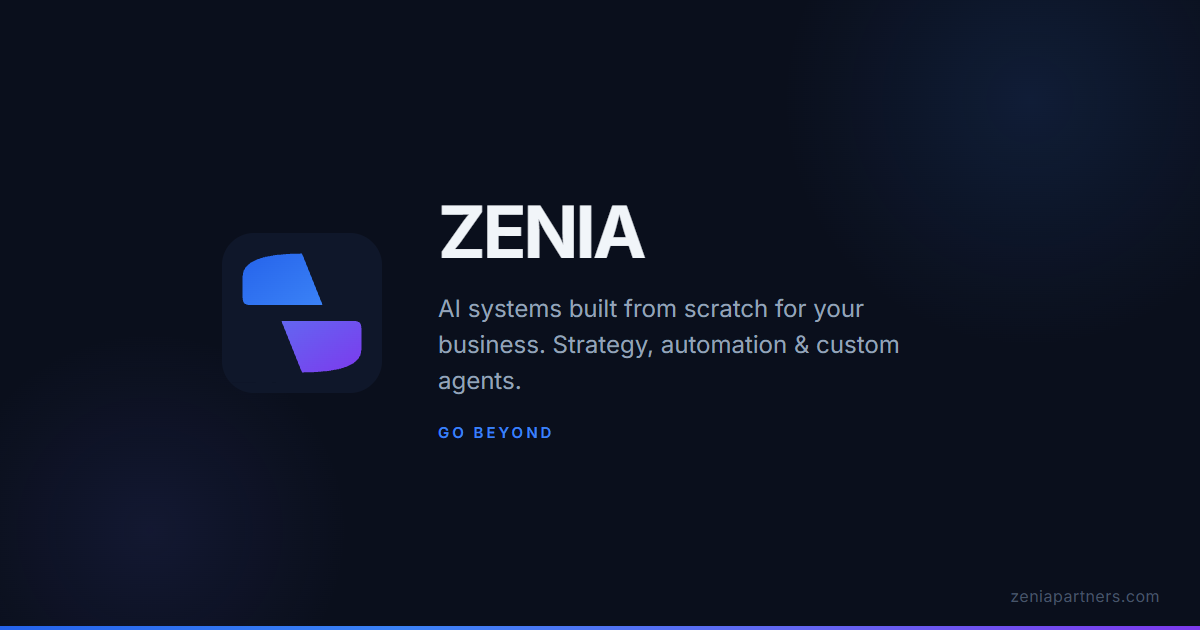
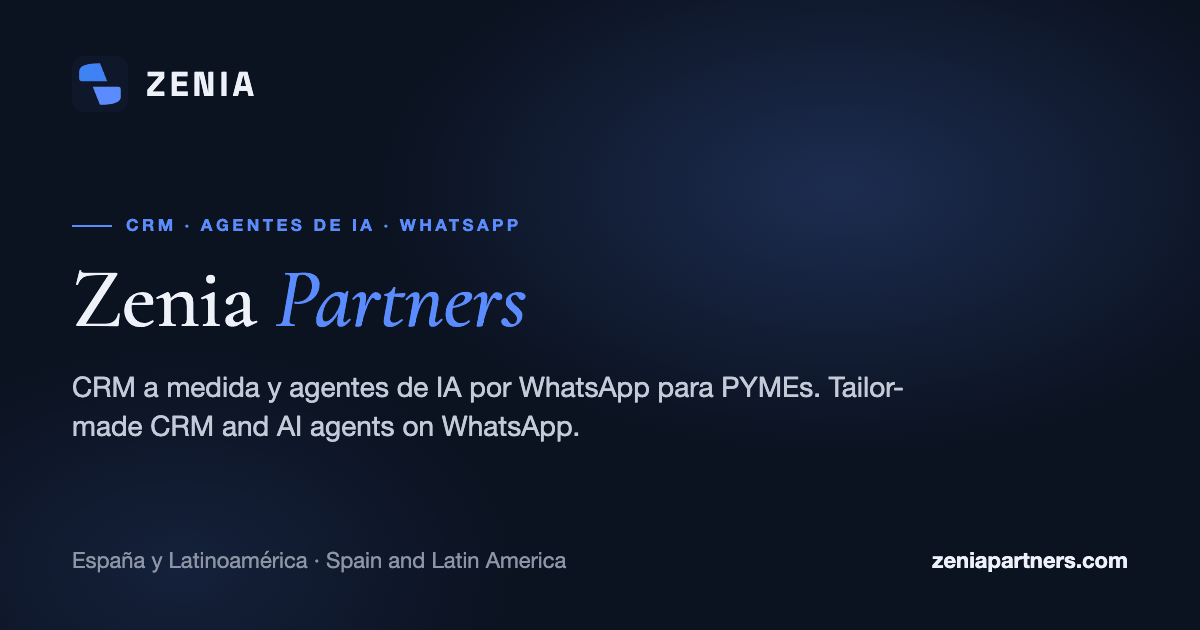
Portadas: tarjetas de vista previa nuevas (WhatsApp, LinkedIn) por idioma y móvil pulido
- og-home-es.jpg / og-home-en.jpg con el logo, la foto de Madrid y el titular; og-image.png nuevo para el resto de páginas.
- Móvil: banda de herramientas en dos columnas alineadas, línea de tiempo vertical con raíl y nodos, los tres marcos de vídeo iguales, botones del cierre a todo el ancho.

diff --git a/index.html b/index.html
@@ -38,7 +38,9 @@
 <meta property="og:title" content="ZENIA | AI Systems for Business | Sistemas de IA para Empresas">
 <meta property="og:description" content="CRM inteligente + automatización WhatsApp + IA para restaurantes, fitness y retail. Reservas, atención al cliente y ventas en piloto automático.">
 <meta property="og:url" content="https://zeniapartners.com/">
-<meta property="og:image" content="https://zeniapartners.com/assets/images/og-image.png">
+<meta property="og:image" content="https://zeniapartners.com/assets/images/og-home-en.jpg">
+<meta property="og:image:secure_url" content="https://zeniapartners.com/assets/images/og-home-en.jpg">
+<meta property="og:image:type" content="image/jpeg">
 <meta property="og:image:width" content="1200">
 <meta property="og:image:height" content="630">
 <meta property="og:locale" content="en_US">
@@ -48,7 +50,7 @@
 <meta name="twitter:card" content="summary_large_image">
 <meta name="twitter:title" content="ZENIA | AI Systems for Business | Sistemas de IA para Empresas">
 <meta name="twitter:description" content="CRM inteligente + automatización WhatsApp + IA para restaurantes, fitness y retail. Reservas, atención al cliente y ventas en piloto automático.">
-<meta name="twitter:image" content="https://zeniapartners.com/assets/images/og-image.png">
+<meta name="twitter:image" content="https://zeniapartners.com/assets/images/og-home-en.jpg">
 
 <!-- SEO: Additional meta -->
 <meta name="robots" content="index, follow, max-snippet:-1, max-image-preview:large, max-video-preview:-1">
@@ -74,7 +76,7 @@
 <noscript><link href="https://fonts.googleapis.com/css2?family=Cormorant+Garamond:ital,wght@0,500;0,600;1,500;1,600&family=Space+Grotesk:wght@700&display=swap" rel="stylesheet"></noscript>
 
 <!-- Stylesheet -->
-<link rel="stylesheet" href="styles/home.css?v=1793736884">
+<link rel="stylesheet" href="styles/home.css?v=1793906336">
 <script type="application/ld+json" data-zenia-org="1">{"@context": "https://schema.org", "@type": ["Organization", "ProfessionalService"], "@id": "https://zeniapartners.com/#organizacion", "name": "Zenia Partners", "alternateName": "Zenia", "url": "https://zeniapartners.com/", "logo": "https://zeniapartners.com/assets/logos/zenia-logo.png", "image": "https://zeniapartners.com/assets/logos/zenia-logo.png", "description": "Zenia Partners es una agencia de inteligencia artificial que implementa agentes de IA sobre WhatsApp y CRM para pequeñas y medianas empresas en España y Latinoamérica. El agente atiende consultas, agenda citas, confirma reservas y recupera clientes inactivos las 24 horas, integrado con las herramientas que la empresa ya usa.", "email": "fabrizzio.zelada@zeniapartners.com", "founder": {"@type": "Person", "name": "Fabrizzio Zelada Uriarte"}, "sameAs": ["https://www.linkedin.com/company/zenia-partners/", "https://www.instagram.com/zeniapartners"], "areaServed": [{"@type": "Country", "name": "España"}, {"@type": "Country", "name": "Perú"}, {"@type": "Country", "name": "México"}, {"@type": "Country", "name": "Colombia"}, {"@type": "Country", "name": "Chile"}, {"@type": "Country", "name": "Argentina"}, {"@type": "Country", "name": "Ecuador"}, {"@type": "Country", "name": "Uruguay"}, {"@type": "Country", "name": "Bolivia"}], "knowsAbout": ["agentes de IA", "automatización de WhatsApp", "WhatsApp Business API", "CRM con inteligencia artificial", "automatización de citas y reservas", "recuperación de clientes inactivos", "atención al cliente 24/7"], "slogan": "Agentes de IA y CRM con WhatsApp para PyMEs", "hasOfferCatalog": {"@type": "OfferCatalog", "name": "Servicios de Zenia Partners", "itemListElement": [{"@type": "Offer", "itemOffered": {"@type": "Service", "name": "Agente de IA por WhatsApp", "description": "Agente conversacional propio sobre WhatsApp Business API que responde, cualifica y agenda 24/7 con el tono de cada negocio."}}, {"@type": "Offer", "itemOffered": {"@type": "Service", "name": "CRM con inteligencia artificial", "description": "CRM implantado y conectado al agente, con ficha de cliente, historial y seguimiento automático."}}, {"@type": "Offer", "itemOffered": {"@type": "Service", "name": "Automatización de citas y reservas", "description": "Agenda, confirmaciones y recordatorios automáticos para reducir las ausencias a las citas."}}, {"@type": "Offer", "itemOffered": {"@type": "Service", "name": "Recuperación de clientes inactivos", "description": "Campañas automáticas que reactivan a clientes que llevan meses sin comprar."}}]}}</script>
 </head>
 <body>
@@ -690,9 +692,9 @@
 <script src="js/i18n.js?v=8"></script>
 <script src="js/main.js?v=7"></script>
 <script defer src="js/booking.js?v=2"></script>
-<script defer src="js/demo-chat.js?v=1793736884"></script>
-<script defer src="js/hero-net.js?v=1793736884"></script>
-<script defer src="js/loops.js?v=1793736884"></script>
+<script defer src="js/demo-chat.js?v=1793906336"></script>
+<script defer src="js/hero-net.js?v=1793906336"></script>
+<script defer src="js/loops.js?v=1793906336"></script>
 
 
 

diff --git a/es/index.html b/es/index.html
@@ -38,7 +38,9 @@
 <meta property="og:title" content="CRM con IA y WhatsApp para PYMEs en Espa&ntilde;a | ZENIA">
 <meta property="og:description" content="CRM con IA y WhatsApp para PYMEs en Espa&ntilde;a. Automatiza ventas, retenci&oacute;n y atenci&oacute;n al cliente.">
 <meta property="og:url" content="https://zeniapartners.com/es/">
-<meta property="og:image" content="https://zeniapartners.com/assets/images/og-image.png">
+<meta property="og:image" content="https://zeniapartners.com/assets/images/og-home-es.jpg">
+<meta property="og:image:secure_url" content="https://zeniapartners.com/assets/images/og-home-es.jpg">
+<meta property="og:image:type" content="image/jpeg">
 <meta property="og:image:width" content="1200">
 <meta property="og:image:height" content="630">
 <meta property="og:locale" content="es_ES">
@@ -48,7 +50,7 @@
 <meta name="twitter:card" content="summary_large_image">
 <meta name="twitter:title" content="CRM con IA y WhatsApp para PYMEs en Espa&ntilde;a | ZENIA">
 <meta name="twitter:description" content="CRM con IA y WhatsApp para PYMEs en Espa&ntilde;a. Desde &euro;297/mes. Restaurantes, gimnasios, cl&iacute;nicas, hoteles, retail y m&aacute;s.">
-<meta name="twitter:image" content="https://zeniapartners.com/assets/images/og-image.png">
+<meta name="twitter:image" content="https://zeniapartners.com/assets/images/og-home-es.jpg">
 
 <!-- SEO: Additional meta -->
 <meta name="robots" content="index, follow, max-snippet:-1, max-image-preview:large, max-video-preview:-1">
@@ -75,7 +77,7 @@
 <noscript><link href="https://fonts.googleapis.com/css2?family=Cormorant+Garamond:ital,wght@0,500;0,600;1,500;1,600&family=Space+Grotesk:wght@700&display=swap" rel="stylesheet"></noscript>
 
 <!-- Stylesheet -->
-<link rel="stylesheet" href="../styles/home.css?v=1793736884">
+<link rel="stylesheet" href="../styles/home.css?v=1793906336">
 <script type="application/ld+json" data-zenia-org="1">{"@context": "https://schema.org", "@type": ["Organization", "ProfessionalService"], "@id": "https://zeniapartners.com/#organizacion", "name": "Zenia Partners", "alternateName": "Zenia", "url": "https://zeniapartners.com/", "logo": "https://zeniapartners.com/assets/logos/zenia-logo.png", "image": "https://zeniapartners.com/assets/logos/zenia-logo.png", "description": "Zenia Partners es una agencia de inteligencia artificial que implementa agentes de IA sobre WhatsApp y CRM para pequeñas y medianas empresas en España y Latinoamérica. El agente atiende consultas, agenda citas, confirma reservas y recupera clientes inactivos las 24 horas, integrado con las herramientas que la empresa ya usa.", "email": "fabrizzio.zelada@zeniapartners.com", "founder": {"@type": "Person", "name": "Fabrizzio Zelada Uriarte"}, "sameAs": ["https://www.linkedin.com/company/zenia-partners/", "https://www.instagram.com/zeniapartners"], "areaServed": [{"@type": "Country", "name": "España"}, {"@type": "Country", "name": "Perú"}, {"@type": "Country", "name": "México"}, {"@type": "Country", "name": "Colombia"}, {"@type": "Country", "name": "Chile"}, {"@type": "Country", "name": "Argentina"}, {"@type": "Country", "name": "Ecuador"}, {"@type": "Country", "name": "Uruguay"}, {"@type": "Country", "name": "Bolivia"}], "knowsAbout": ["agentes de IA", "automatización de WhatsApp", "WhatsApp Business API", "CRM con inteligencia artificial", "automatización de citas y reservas", "recuperación de clientes inactivos", "atención al cliente 24/7"], "slogan": "Agentes de IA y CRM con WhatsApp para PyMEs", "hasOfferCatalog": {"@type": "OfferCatalog", "name": "Servicios de Zenia Partners", "itemListElement": [{"@type": "Offer", "itemOffered": {"@type": "Service", "name": "Agente de IA por WhatsApp", "description": "Agente conversacional propio sobre WhatsApp Business API que responde, cualifica y agenda 24/7 con el tono de cada negocio."}}, {"@type": "Offer", "itemOffered": {"@type": "Service", "name": "CRM con inteligencia artificial", "description": "CRM implantado y conectado al agente, con ficha de cliente, historial y seguimiento automático."}}, {"@type": "Offer", "itemOffered": {"@type": "Service", "name": "Automatización de citas y reservas", "description": "Agenda, confirmaciones y recordatorios automáticos para reducir las ausencias a las citas."}}, {"@type": "Offer", "itemOffered": {"@type": "Service", "name": "Recuperación de clientes inactivos", "description": "Campañas automáticas que reactivan a clientes que llevan meses sin comprar."}}]}}</script>
 </head>
 <body>
@@ -825,9 +827,9 @@ window.showLangModal = showLangModal;
 </script>
 <script src="../js/main.js?v=7"></script>
 <script defer src="../js/booking.js?v=2"></script>
-<script defer src="../js/demo-chat.js?v=1793736884"></script>
-<script defer src="../js/hero-net.js?v=1793736884"></script>
-<script defer src="../js/loops.js?v=1793736884"></script>
+<script defer src="../js/demo-chat.js?v=1793906336"></script>
+<script defer src="../js/hero-net.js?v=1793906336"></script>
+<script defer src="../js/loops.js?v=1793906336"></script>
 
 
 

diff --git a/styles/home.css b/styles/home.css
@@ -1113,21 +1113,27 @@ body > div:has(> a[href$="cobertura.html"]) a { color: var(--ink-soft) !importan
   .nav-links.nav-open, .nav-right.nav-open { background: var(--paper-2); border-bottom: 1px solid var(--line); }
   .nav-links.nav-open a { color: var(--ink); }
   body.nav-menu-open .nav { background: var(--paper-2); }
-  .strip .container { gap: 14px 24px; }
-  .strip li { font-size: 1.0625rem; }
+  .strip .container { display: block; }
+  .strip-label { margin-bottom: 16px; }
+  .strip ul { display: grid; grid-template-columns: minmax(0, 1.35fr) minmax(0, 1fr); gap: 14px 14px; }
+  .strip li { font-size: 0.9375rem; min-width: 0; white-space: nowrap; overflow: hidden; text-overflow: ellipsis; display: flex; gap: 8px; }
+  .strip li span { overflow: hidden; text-overflow: ellipsis; }
   .strip li svg { width: 18px; height: 18px; }
-  .gantt { border-radius: 12px; }
-  .gantt-chart { grid-template-columns: 1fr; grid-template-rows: none; }
-  .gantt-corner, .gantt-ruler, .gantt-grid { display: none; }
-  .gantt-text, .gantt-track { grid-column: 1; grid-row: auto; border-right: 0; }
-  .gantt-text { padding: 20px 20px 10px; border-bottom: 0; }
-  .gantt-track { min-height: 0; height: 40px; margin: 0 20px 20px; border-bottom: 0; background: repeating-linear-gradient(to right, var(--line) 0 1px, transparent 1px calc(100% / 12)); }
-  .gantt-row:not(:last-child) .gantt-track::before { content: ""; position: absolute; left: -20px; right: -20px; bottom: -20px; border-bottom: 1px solid var(--line); }
-  .gantt-bar { height: 16px; padding: 0; border-radius: 4px; box-shadow: none; left: calc(var(--s) / var(--n) * 100%); width: calc((var(--e) - var(--s)) / var(--n) * 100%); }
-  .gantt-row--inf .gantt-bar { width: calc((var(--e) - var(--s)) / var(--n) * 100% - 18px); }
-  .gantt-bar i { display: none; }
-  .gantt-dur { display: block; }
-  .gantt-row--inf .gantt-track::after { font-size: 1rem; right: 0; }
+  .gantt { border-radius: 12px; background: none; border: 0; box-shadow: none; }
+  .gantt-chart { display: block; }
+  .gantt-corner, .gantt-ruler, .gantt-grid, .gantt-track { display: none; }
+  .gantt-rows { display: block; position: relative; padding-left: 34px; }
+  .gantt-rows::before { content: ""; position: absolute; left: 9px; top: 10px; bottom: 10px; width: 2px; background: var(--line-strong); }
+  .gantt-row { display: block; position: relative; padding: 0 0 28px; }
+  .gantt-row:last-child { padding-bottom: 0; }
+  .gantt-row::before { content: ""; position: absolute; left: -34px; top: 4px; width: 20px; height: 20px; border-radius: 50%; background: var(--paper); border: 2px solid var(--accent); box-sizing: border-box; }
+  .gantt-row:nth-child(1)::before, .gantt-row:nth-child(2)::before { background: var(--accent-deep); border-color: var(--accent-deep); }
+  .gantt-row--inf::before { border-style: dashed; }
+  .gantt-text { display: flex; flex-direction: column; padding: 0; border: 0; }
+  .gantt-dur { display: inline-block; order: -1; align-self: flex-start; margin: 0 0 10px; padding: 6px 10px; border-radius: 999px; background: rgba(91, 140, 255, 0.14); color: var(--accent); font-size: 0.6875rem; }
+  .gantt-text h3 { font-size: 1.25rem; margin-bottom: 6px; }
+  .gantt-text p { max-width: none; }
+  .gantt-note { margin-top: 24px; }
   .footer-head { grid-template-columns: 1fr; }
   .footer-head .btn { justify-self: start; }
   .phone { border-width: 7px; border-radius: 30px; }
@@ -1153,7 +1159,12 @@ body > div:has(> a[href$="cobertura.html"]) a { color: var(--ink-soft) !importan
   .case-feature, .case-feature--flip { grid-template-columns: 1fr; padding: 20px; row-gap: 24px; }
   .case-feature--flip .reel-frame { order: 1; }
   .case-feature--flip .case-feature-text { order: 2; }
-  .stage-sound { min-height: 44px; font-size: 0.75rem; }
+  .stage-sound { min-height: 44px; font-size: 0.6875rem; white-space: nowrap; padding: 0 16px 0 12px; }
+  .service-card, .service-card--featured, .case-feature, .case-feature--flip { padding: 20px; }
+  .service-figure.is-video, .case-feature .reel-frame { width: 100%; max-width: none; margin: 0; }
+  .stage-box { aspect-ratio: 4 / 3; border-radius: 12px; }
+  .cta-actions { width: 100%; flex-direction: column; align-items: stretch; gap: 12px; }
+  .cta-actions .btn, .cta-actions .btn-secondary { width: 100%; min-height: 56px; justify-content: center; padding-top: 0; padding-bottom: 0; line-height: 1.2; }
   .case-feature .btn, .opp-cta .btn, .plan .btn, .price-hero .btn, .cta-actions .btn { max-width: 100%; white-space: normal; text-align: center; line-height: 1.3; padding-top: 12px; padding-bottom: 12px; }
   .case-feature-stats { display: grid; grid-template-columns: repeat(3, 1fr); gap: 12px; }
   .case-feature-stats b { font-size: 1.75rem; }

diff --git a/scripts/rediseno-noir/noir-overrides.css b/scripts/rediseno-noir/noir-overrides.css
@@ -562,21 +562,27 @@ body > div:has(> a[href$="cobertura.html"]) a { color: var(--ink-soft) !importan
   .nav-links.nav-open, .nav-right.nav-open { background: var(--paper-2); border-bottom: 1px solid var(--line); }
   .nav-links.nav-open a { color: var(--ink); }
   body.nav-menu-open .nav { background: var(--paper-2); }
-  .strip .container { gap: 14px 24px; }
-  .strip li { font-size: 1.0625rem; }
+  .strip .container { display: block; }
+  .strip-label { margin-bottom: 16px; }
+  .strip ul { display: grid; grid-template-columns: minmax(0, 1.35fr) minmax(0, 1fr); gap: 14px 14px; }
+  .strip li { font-size: 0.9375rem; min-width: 0; white-space: nowrap; overflow: hidden; text-overflow: ellipsis; display: flex; gap: 8px; }
+  .strip li span { overflow: hidden; text-overflow: ellipsis; }
   .strip li svg { width: 18px; height: 18px; }
-  .gantt { border-radius: 12px; }
-  .gantt-chart { grid-template-columns: 1fr; grid-template-rows: none; }
-  .gantt-corner, .gantt-ruler, .gantt-grid { display: none; }
-  .gantt-text, .gantt-track { grid-column: 1; grid-row: auto; border-right: 0; }
-  .gantt-text { padding: 20px 20px 10px; border-bottom: 0; }
-  .gantt-track { min-height: 0; height: 40px; margin: 0 20px 20px; border-bottom: 0; background: repeating-linear-gradient(to right, var(--line) 0 1px, transparent 1px calc(100% / 12)); }
-  .gantt-row:not(:last-child) .gantt-track::before { content: ""; position: absolute; left: -20px; right: -20px; bottom: -20px; border-bottom: 1px solid var(--line); }
-  .gantt-bar { height: 16px; padding: 0; border-radius: 4px; box-shadow: none; left: calc(var(--s) / var(--n) * 100%); width: calc((var(--e) - var(--s)) / var(--n) * 100%); }
-  .gantt-row--inf .gantt-bar { width: calc((var(--e) - var(--s)) / var(--n) * 100% - 18px); }
-  .gantt-bar i { display: none; }
-  .gantt-dur { display: block; }
-  .gantt-row--inf .gantt-track::after { font-size: 1rem; right: 0; }
+  .gantt { border-radius: 12px; background: none; border: 0; box-shadow: none; }
+  .gantt-chart { display: block; }
+  .gantt-corner, .gantt-ruler, .gantt-grid, .gantt-track { display: none; }
+  .gantt-rows { display: block; position: relative; padding-left: 34px; }
+  .gantt-rows::before { content: ""; position: absolute; left: 9px; top: 10px; bottom: 10px; width: 2px; background: var(--line-strong); }
+  .gantt-row { display: block; position: relative; padding: 0 0 28px; }
+  .gantt-row:last-child { padding-bottom: 0; }
+  .gantt-row::before { content: ""; position: absolute; left: -34px; top: 4px; width: 20px; height: 20px; border-radius: 50%; background: var(--paper); border: 2px solid var(--accent); box-sizing: border-box; }
+  .gantt-row:nth-child(1)::before, .gantt-row:nth-child(2)::before { background: var(--accent-deep); border-color: var(--accent-deep); }
+  .gantt-row--inf::before { border-style: dashed; }
+  .gantt-text { display: flex; flex-direction: column; padding: 0; border: 0; }
+  .gantt-dur { display: inline-block; order: -1; align-self: flex-start; margin: 0 0 10px; padding: 6px 10px; border-radius: 999px; background: rgba(91, 140, 255, 0.14); color: var(--accent); font-size: 0.6875rem; }
+  .gantt-text h3 { font-size: 1.25rem; margin-bottom: 6px; }
+  .gantt-text p { max-width: none; }
+  .gantt-note { margin-top: 24px; }
   .footer-head { grid-template-columns: 1fr; }
   .footer-head .btn { justify-self: start; }
   .phone { border-width: 7px; border-radius: 30px; }
@@ -602,7 +608,12 @@ body > div:has(> a[href$="cobertura.html"]) a { color: var(--ink-soft) !importan
   .case-feature, .case-feature--flip { grid-template-columns: 1fr; padding: 20px; row-gap: 24px; }
   .case-feature--flip .reel-frame { order: 1; }
   .case-feature--flip .case-feature-text { order: 2; }
-  .stage-sound { min-height: 44px; font-size: 0.75rem; }
+  .stage-sound { min-height: 44px; font-size: 0.6875rem; white-space: nowrap; padding: 0 16px 0 12px; }
+  .service-card, .service-card--featured, .case-feature, .case-feature--flip { padding: 20px; }
+  .service-figure.is-video, .case-feature .reel-frame { width: 100%; max-width: none; margin: 0; }
+  .stage-box { aspect-ratio: 4 / 3; border-radius: 12px; }
+  .cta-actions { width: 100%; flex-direction: column; align-items: stretch; gap: 12px; }
+  .cta-actions .btn, .cta-actions .btn-secondary { width: 100%; min-height: 56px; justify-content: center; padding-top: 0; padding-bottom: 0; line-height: 1.2; }
   .case-feature .btn, .opp-cta .btn, .plan .btn, .price-hero .btn, .cta-actions .btn { max-width: 100%; white-space: normal; text-align: center; line-height: 1.3; padding-top: 12px; padding-bottom: 12px; }
   .case-feature-stats { display: grid; grid-template-columns: repeat(3, 1fr); gap: 12px; }
   .case-feature-stats b { font-size: 1.75rem; }

diff --git a/scripts/rediseno-noir/build_launch.py b/scripts/rediseno-noir/build_launch.py
@@ -388,6 +388,16 @@ def build(lang, s, ver):
     assert s.count(old_js) == 1
     s = s.replace(old_js, f'<script defer src="{pre}js/demo-chat.js?v={ver}"></script>\n<script defer src="{pre}js/hero-net.js?v={ver}"></script>\n<script defer src="{pre}js/loops.js?v={ver}"></script>', 1)
     s = s.replace('<meta name="theme-color" content="#F4F4F1">', '<meta name="theme-color" content="#0B1220">')
+    # el contador de Cloudflare con el token de envío (la fuente de la rama trae el identificador de consulta)
+    s = s.replace('"token": "67e4803d7cd443a49b12c7d8a99365bf"', '"token": "eceeed460f6d465bba3b970417d5f6b0"')
+    # la tarjeta de vista previa (WhatsApp, LinkedIn, X) propia de cada portada
+    og = f"https://zeniapartners.com/assets/images/og-home-{lang}.jpg"
+    n_og = s.count('<meta property="og:image" content="https://zeniapartners.com/assets/images/og-image.png">')
+    assert n_og == 1, n_og
+    s = s.replace('<meta property="og:image" content="https://zeniapartners.com/assets/images/og-image.png">',
+                  f'<meta property="og:image" content="{og}">\n<meta property="og:image:secure_url" content="{og}">\n<meta property="og:image:type" content="image/jpeg">', 1)
+    s = s.replace('<meta name="twitter:image" content="https://zeniapartners.com/assets/images/og-image.png">', f'<meta name="twitter:image" content="{og}">', 1)
+    assert s.count(og) == 3, s.count(og)
     if lang == "en":
         # el aviso de cookies, en inglés
         s = s.replace('Usamos cookies para analítica (Google Analytics) y mejorar tu experiencia. No compartimos datos con terceros. <a href="/privacy/" style="color:#1D4ED8;text-decoration:underline;">Política de privacidad</a>',
